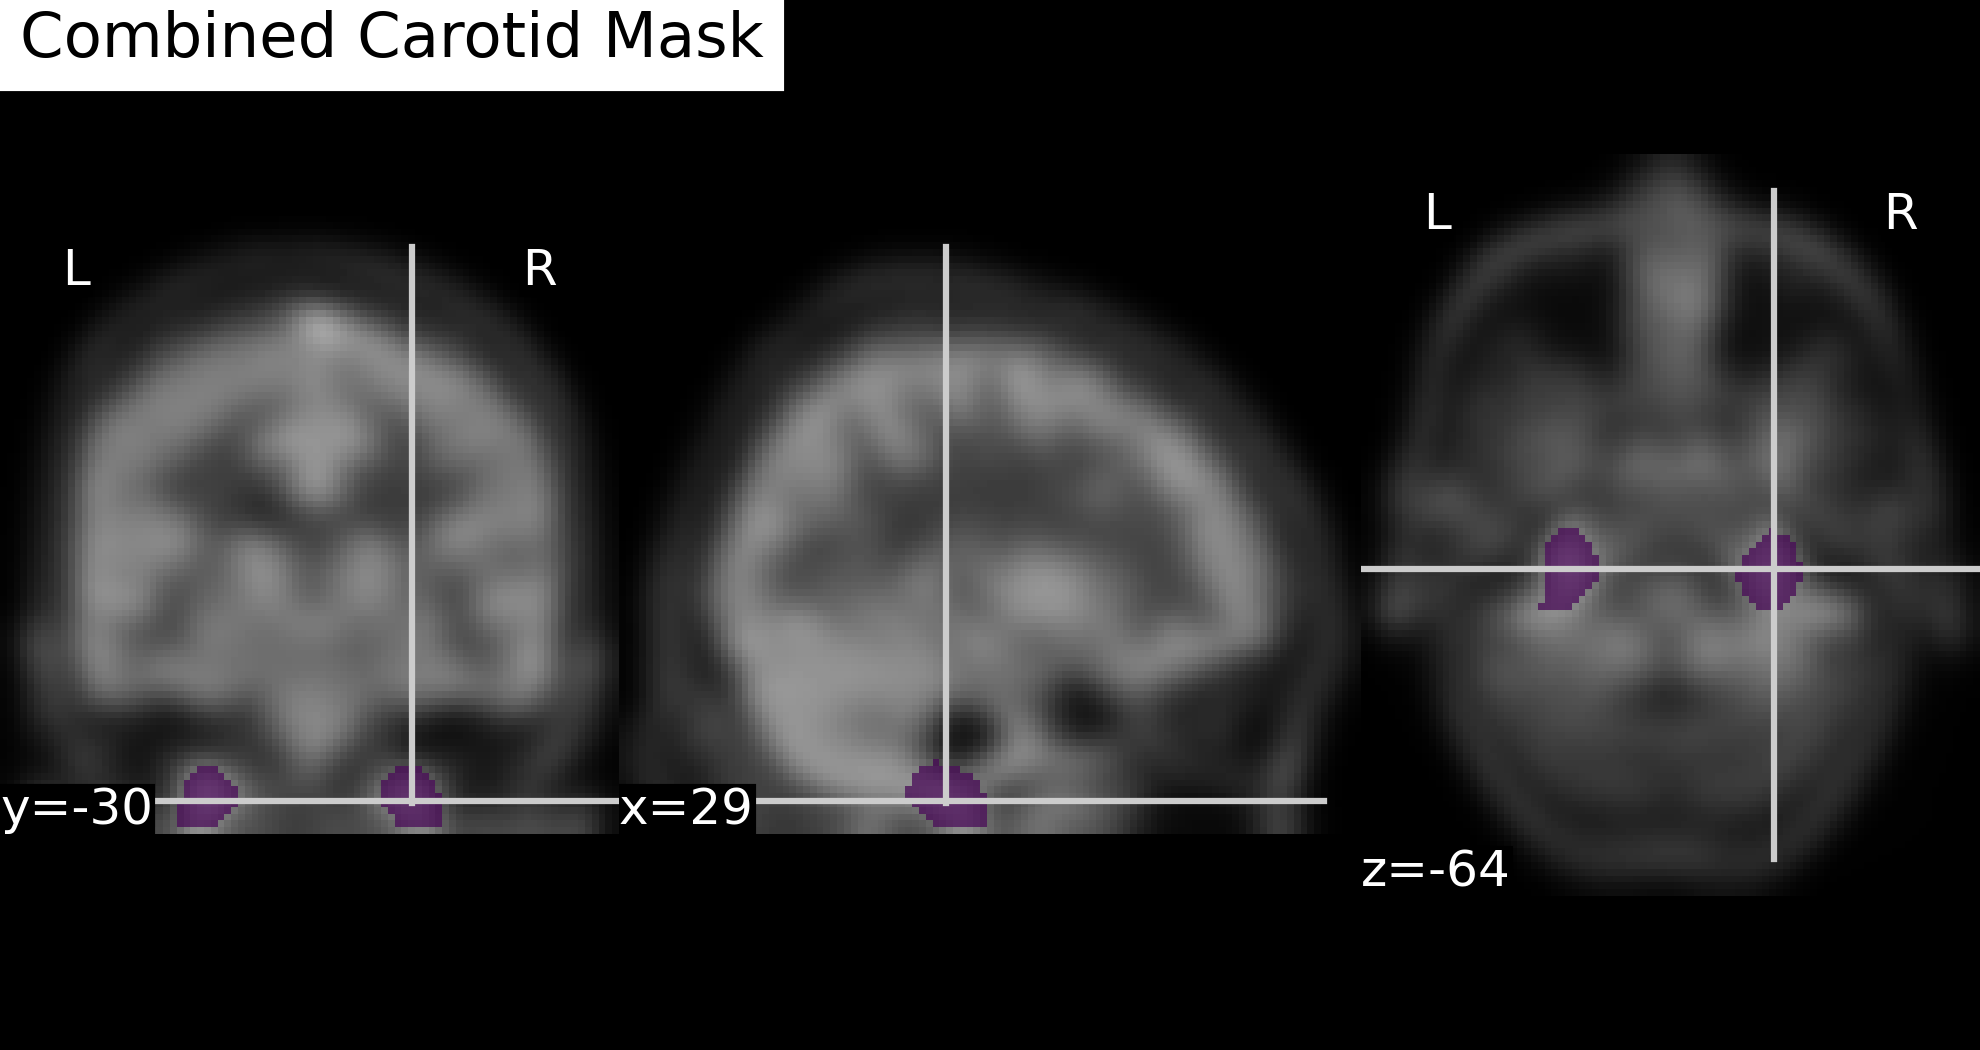
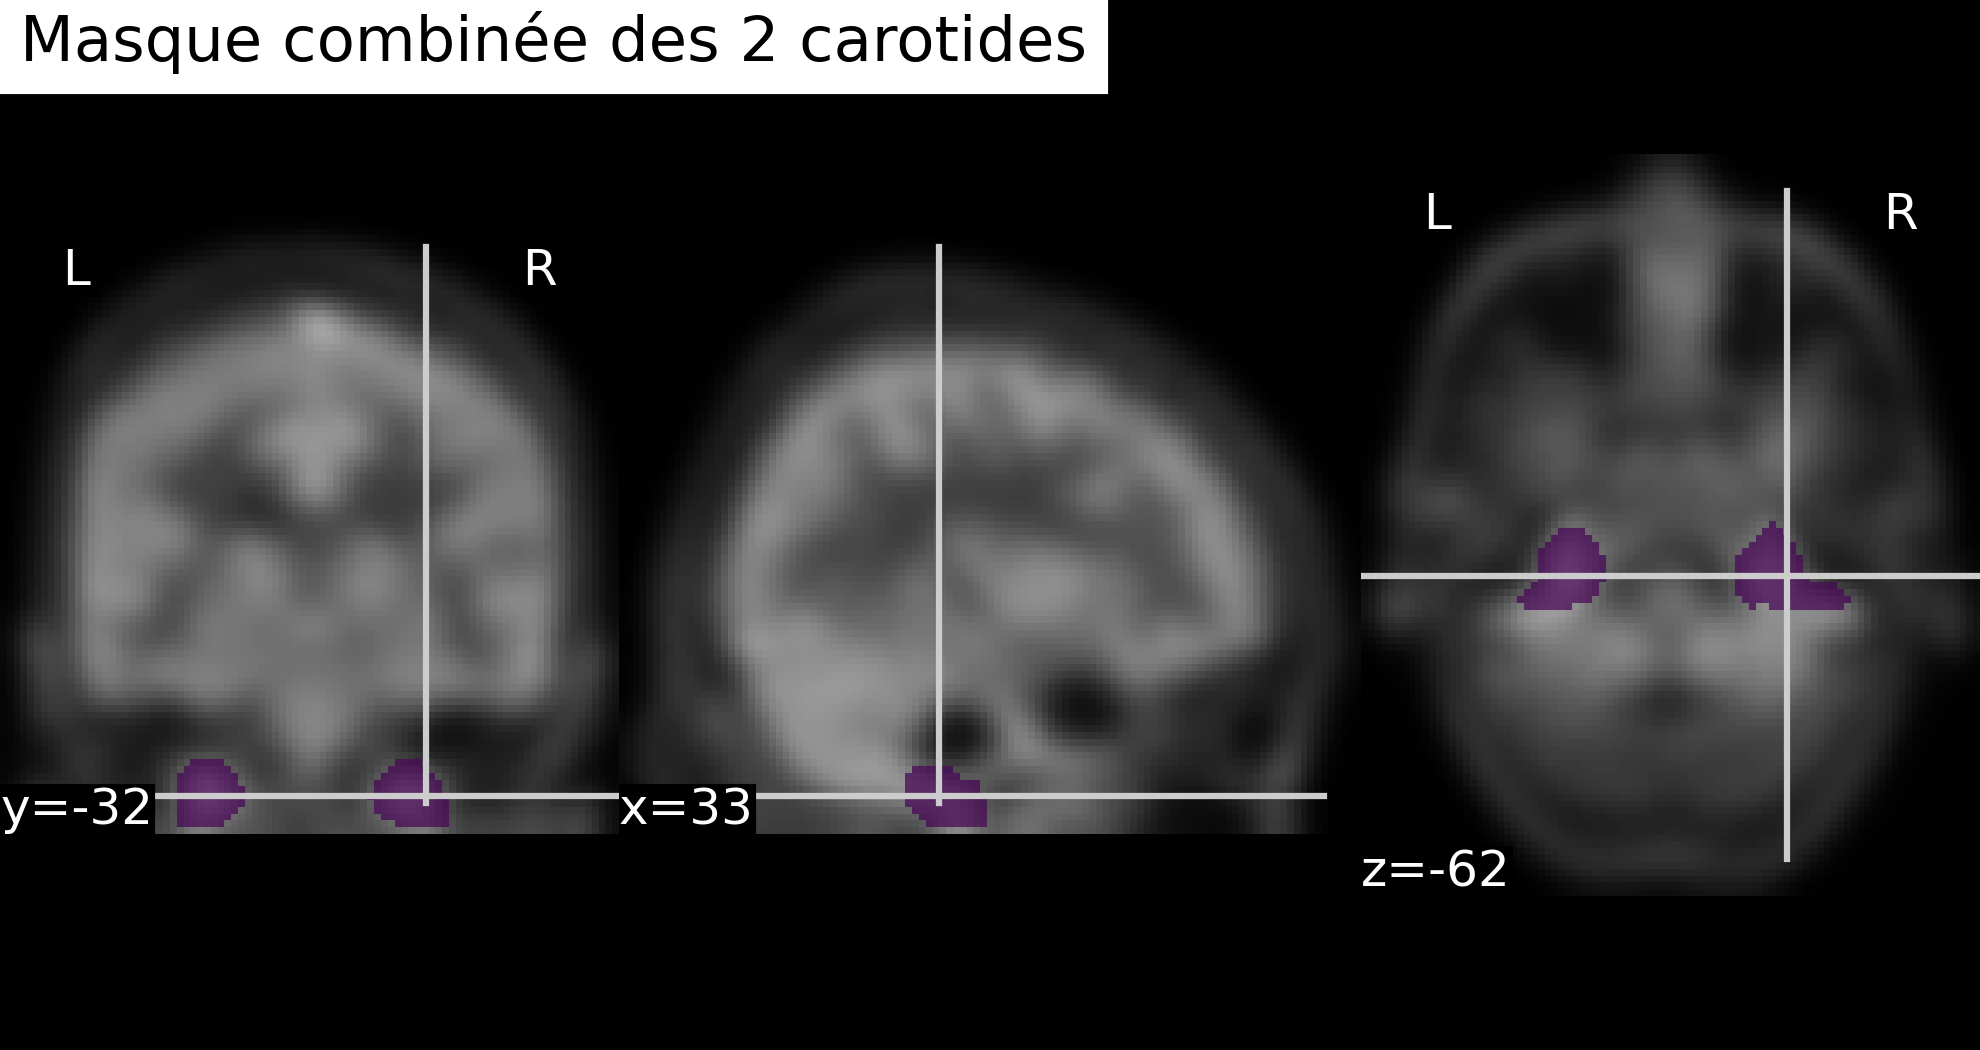
a better mask for only region of the carotids
ajout d'une réstriction latérale ! d(xmin,xmax) de carotide < d(xmin,xmax) cerveau

diff --git a/Kmeans + MeanShift/Kmeans&MeanShift approach.py b/Kmeans + MeanShift/Kmeans&MeanShift approach.py
@@ -113,20 +113,42 @@ def get_lower_brain_mask(brain_mask,offset=5):
     
     return lower_mask
 
-def restrict_to_carotids(lower_brain_mask, anterior_ratio=0.6, posterior_ratio=0.2):
+def restrict_to_carotids(lower_brain_mask, 
+                                  anterior_ratio=0.6, 
+                                  posterior_ratio=0.4,
+                                  lateral_ratio=0.6):
     """
-    Restrict mask to central anterior-posterior region to isolate carotids.
+     Paramètres:
+        lower_brain_mask (ndarray): Masque 3D binaire du cerveau (forme X, Y, Z).
+        anterior_ratio (float): Fraction antérieure à *conserver*.
+                               Ex: 0.6 → conserve les 60% antérieurs du masque.
+        posterior_ratio (float): Fraction postérieure à *supprimer*.
+                                Ex: 0.4 → supprime les 40% postérieurs du masque.
+        lateral_ratio (float): Fraction *centrale* (gauche-droite) à conserver.
+                               Ex: 0.6 → conserve 60% centraux de l'axe X.
     
-    anterior_ratio: proportion [0-1] from the front to keep (default: keep 60% of the front)
-    posterior_ratio: proportion [0-1] from the back to discard (default: discard last 20%)
+    Retour:
+        ndarray: Masque 3D binaire restreint aux carotides.
     """
     X, Y, Z = lower_brain_mask.shape
     y_front_cutoff = int(Y * (1 - anterior_ratio))
     y_back_cutoff = int(Y * posterior_ratio)
 
+    x_center = X // 2
+    x_half_width = int(X * lateral_ratio / 2)
+
     carotid_mask = np.zeros_like(lower_brain_mask, dtype=bool)
-    carotid_mask[:, y_back_cutoff:Y - y_front_cutoff, :] = lower_brain_mask[:, y_back_cutoff:Y - y_front_cutoff, :]
+    carotid_mask[
+        x_center - x_half_width : x_center + x_half_width,
+        y_back_cutoff : Y - y_front_cutoff,
+        :
+    ] = lower_brain_mask[
+        x_center - x_half_width : x_center + x_half_width,
+        y_back_cutoff : Y - y_front_cutoff,
+        :
+    ]
     return carotid_mask
+
 
 
 def process_hemisphere(volume, mask, affine, bandwidth=5.0, subsample_size=10000, min_cluster_size=50):
@@ -332,7 +354,7 @@ def mainFunction(patient_id,path_to_nifti_img,path_to_tac_data):
     lower_mask = get_lower_brain_mask(brain_mask)
     lower_mask = lower_mask.astype(np.int8)
     lower_mask_img = nib.Nifti1Image(lower_mask, affine)
-    carotid_region = restrict_to_carotids(lower_mask, anterior_ratio=0.6, posterior_ratio=0.2)
+    carotid_region = restrict_to_carotids(lower_mask)
     
     plotting.plot_roi(
         roi_img= nib.Nifti1Image(carotid_region.astype(np.int8), affine),
@@ -346,7 +368,7 @@ def mainFunction(patient_id,path_to_nifti_img,path_to_tac_data):
     plt.show()
  
     #Valeurs des deux carotdes
-    left_mask,right_mask, bright_mask = extract_carotids(nft_img, lower_mask,affine,patient_id)
+    left_mask,right_mask, bright_mask = extract_carotids(nft_img, carotid_region,affine,patient_id)
     carot = calcul_moy_intensite(data,bright_mask)
     carot = [0] + list(carot)
     
